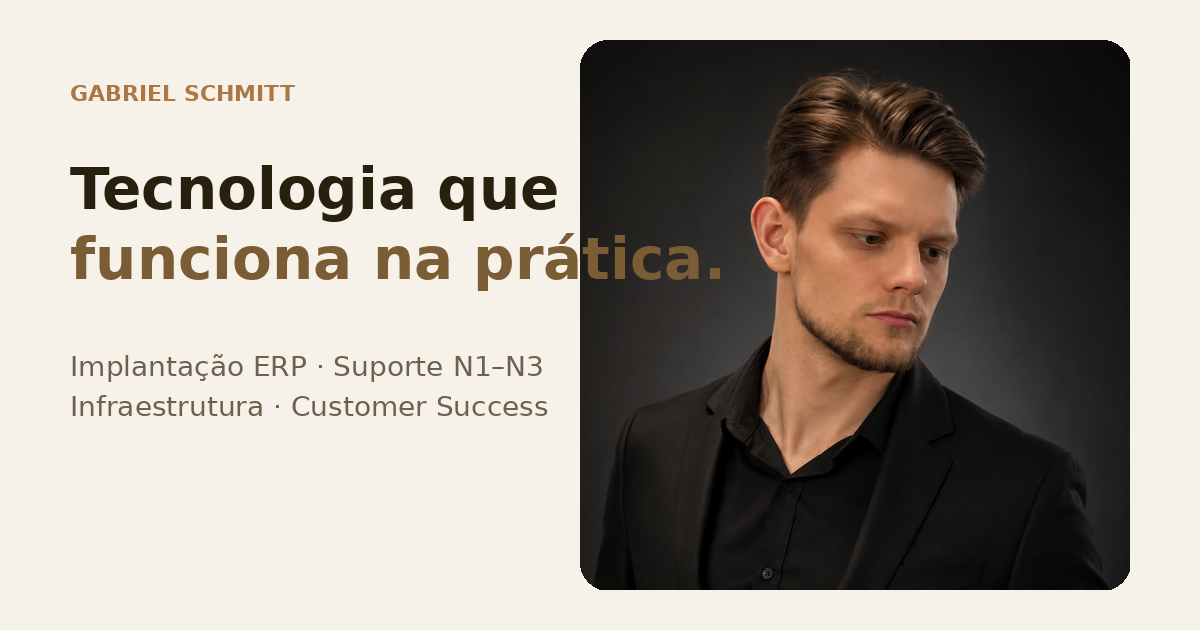
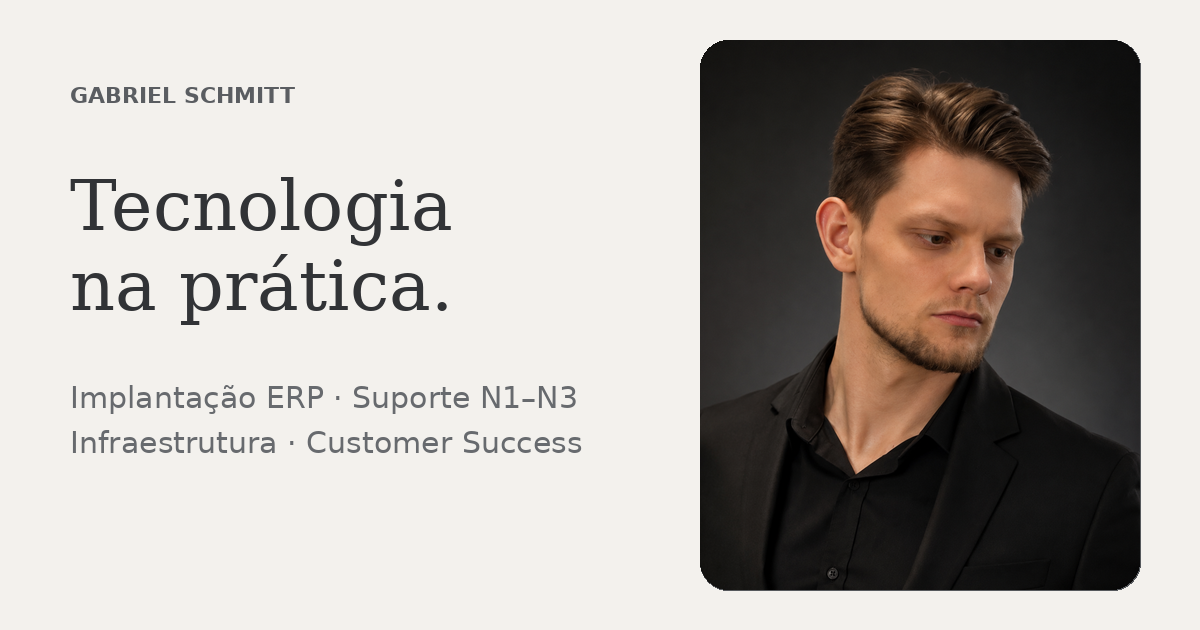
Add files via upload

Changed region(s): [[0.0617, 0.0603, 0.9558, 0.9349], [0.0617, 0.1206, 0.2467, 0.181], [0.6783, 0.9048, 0.7092, 0.9349]]

diff --git a/style.css b/style.css
@@ -1,23 +1,22 @@
 @import url('https://fonts.googleapis.com/css2?family=Fraunces:ital,opsz,wght@0,9..144,300;0,9..144,400;0,9..144,500;0,9..144,600;1,9..144,300;1,9..144,400&family=Outfit:wght@300;400;500;600&display=swap');
 
-
 :root {
-  --background: #111111;
-  --foreground: #F2F2F2;
-
-  --primary: #E7E7E7;
-  --primary-foreground: #111111;
-
-  --secondary: #1C1C1C;
-  --secondary-foreground: #D7D7D7;
-
-  --muted: #242424;
-  --muted-foreground: #A8A8A8;
-
-  --accent: #9AA4AE;
-
-  --border: #333333;
-  --card: #171717;
+  --background: #f3f1ed;
+  --foreground: #303235;
+  --card: #e7e5e0;
+  --primary: #55585c;
+  --primary-foreground: #f8f7f4;
+  --secondary: #d9d7d2;
+  --secondary-foreground: #424448;
+  --muted: #c9c7c2;
+  --muted-foreground: #676a6e;
+  --accent: #958b80;
+  --border: #c9c7c2;
+  --graphite: #5c5f63;
+  --graphite-deep: #4d5054;
+  --graphite-text: #f7f6f3;
+  --graphite-muted: #d4d3d0;
+  --max: 1120px;
 }
 
 * { box-sizing: border-box; }
@@ -80,8 +79,8 @@ h1, h2, h3, .brand { font-family: 'Fraunces', serif; }
   border-bottom: 1px solid transparent;
 }
 .site-nav--solid {
-  background: rgba(246, 241, 233, .94);
-  border-color: rgba(207, 198, 183, .78);
+  background: rgba(243, 241, 237, .96);
+  border-color: rgba(201, 199, 194, .82);
   backdrop-filter: blur(14px);
 }
 .nav-inner { min-height: 72px; display: flex; align-items: center; justify-content: space-between; gap: 24px; }
@@ -111,10 +110,10 @@ h1, h2, h3, .brand { font-family: 'Fraunces', serif; }
 .primary-link:hover { background: var(--accent); transform: translateY(-2px); }
 .hero-rule { width: 1px; height: 64px; background: var(--border); margin-top: 76px; }
 
-.about-grid { display: grid; grid-template-columns: .85fr 1.15fr; gap: 88px; align-items: center; }
+.about-grid { display: grid; grid-template-columns: minmax(330px, .9fr) minmax(0, 1.2fr); gap: 82px; align-items: center; }
 .portrait-column { display: flex; justify-content: flex-start; }
-.portrait-frame { width: 288px; position: relative; isolation: isolate; }
-.portrait-frame img { width: 288px; height: 352px; object-fit: cover; object-position: top center; border-radius: 16px; position: relative; z-index: 2; }
+.portrait-frame { width: 330px; position: relative; isolation: isolate; }
+.portrait-frame img { width: 330px; height: 404px; object-fit: cover; object-position: top center; border-radius: 16px; position: relative; z-index: 2; }
 .portrait-shadow { position: absolute; inset: 0; transform: translate(12px, 12px); border-radius: 16px; background: var(--muted); z-index: 0; }
 .corner { position: absolute; width: 40px; height: 40px; z-index: 3; border-color: var(--accent); }
 .corner-tl { top: -12px; left: -12px; border-top: 2px solid; border-left: 2px solid; border-top-left-radius: 12px; }
@@ -130,7 +129,44 @@ h1, h2, h3, .brand { font-family: 'Fraunces', serif; }
 .languages { color: var(--muted-foreground); font-size: .78rem; line-height: 1.7; }
 .languages span { margin: 0 5px; color: var(--border); }
 
-.projects-section { background: var(--card); }
+
+/* Definitive graphite + light-gray visual system */
+.hero {
+  background: linear-gradient(180deg, #f5f3ef 0%, #efede8 100%);
+}
+
+.about-section {
+  background: linear-gradient(135deg, #686b6f 0%, #595c60 58%, #64676b 100%);
+  color: var(--graphite-text);
+  border-top: 1px solid rgba(255,255,255,.08);
+  border-bottom: 1px solid rgba(255,255,255,.10);
+}
+.about-section .eyebrow { color: #d8cec3; }
+.about-section h2,
+.about-section h2 span { color: var(--graphite-text); }
+.about-section p:not(.eyebrow):not(.languages) { color: var(--graphite-muted); }
+.about-section .portrait-shadow { background: rgba(255,255,255,.10); }
+.about-section .corner { border-color: rgba(248,247,244,.92); }
+.about-section .contact-row a {
+  background: rgba(255,255,255,.045);
+  color: var(--graphite-text);
+  border-color: rgba(255,255,255,.28);
+  backdrop-filter: blur(8px);
+}
+.about-section .contact-row a:hover {
+  background: rgba(255,255,255,.92);
+  color: #494c50;
+  border-color: rgba(255,255,255,.92);
+}
+.about-section .languages { color: #deddda; }
+.about-section .languages span { color: rgba(255,255,255,.36); }
+
+.projects-section { background: #e5e3de; }
+.skills-section { background: #f5f3ef; }
+#experiencia { background: #eceae5; }
+.services-section { background: #d8d6d1; }
+.contact-footer { background: var(--graphite-deep); color: var(--primary-foreground); }
+
 .project-list { border-top: 1px solid var(--border); }
 .project-row { display: grid; grid-template-columns: 150px 1fr 190px; gap: 34px; align-items: start; padding: 34px 0; border-bottom: 1px solid var(--border); }
 .project-type, .project-meta { color: var(--muted-foreground); font-size: .78rem; line-height: 1.6; }
@@ -165,17 +201,17 @@ h1, h2, h3, .brand { font-family: 'Fraunces', serif; }
 
 .contact-footer { background: var(--primary); color: var(--primary-foreground); text-align: center; }
 .footer-inner { max-width: 760px; }
-.eyebrow-light { color: rgba(246, 241, 233, .68); }
+.eyebrow-light { color: rgba(248, 247, 244, .72); }
 .contact-footer h2 { margin: 0; font-size: clamp(3rem, 6vw, 5rem); line-height: 1; font-weight: 300; }
-.footer-copy { margin: 24px auto 34px; max-width: 540px; color: rgba(246, 241, 233, .78); line-height: 1.7; }
+.footer-copy { margin: 24px auto 34px; max-width: 540px; color: rgba(248, 247, 244, .82); line-height: 1.7; }
 .footer-actions { display: flex; justify-content: center; gap: 14px; flex-wrap: wrap; }
 .footer-actions a { display: inline-flex; align-items: center; gap: 8px; padding: 13px 20px; border-radius: 999px; font-size: .9rem; font-weight: 500; }
 .footer-primary { background: var(--primary-foreground); color: var(--primary); }
-.footer-secondary { border: 1px solid rgba(246, 241, 233, .42); }
-.footer-links { display: flex; justify-content: center; gap: 24px; flex-wrap: wrap; margin-top: 48px; padding-top: 28px; border-top: 1px solid rgba(246, 241, 233, .16); }
-.footer-links a { color: rgba(246, 241, 233, .72); font-size: .86rem; transition: color .2s ease; }
+.footer-secondary { border: 1px solid rgba(248, 247, 244, .46); }
+.footer-links { display: flex; justify-content: center; gap: 24px; flex-wrap: wrap; margin-top: 48px; padding-top: 28px; border-top: 1px solid rgba(248, 247, 244, .18); }
+.footer-links a { color: rgba(248, 247, 244, .76); font-size: .86rem; transition: color .2s ease; }
 .footer-links a:hover { color: var(--primary-foreground); }
-.copyright { margin: 30px 0 0; color: rgba(246, 241, 233, .42); font-size: .75rem; }
+.copyright { margin: 30px 0 0; color: rgba(248, 247, 244, .46); font-size: .75rem; }
 
 ::-webkit-scrollbar { width: 5px; }
 ::-webkit-scrollbar-track { background: transparent; }
@@ -194,14 +230,20 @@ h1, h2, h3, .brand { font-family: 'Fraunces', serif; }
 }
 
 @media (max-width: 620px) {
-  .container { width: min(calc(100% - 28px), var(--max)); }
+  .container { width: min(calc(100% - 32px), var(--max)); }
   .section-pad { padding: 72px 0; }
-  .hero h1 { font-size: clamp(3.6rem, 17vw, 5.5rem); }
+  .hero { min-height: 88vh; padding-top: 108px; }
+  .hero h1 { font-size: clamp(3.25rem, 15vw, 4.8rem); line-height: .94; }
   .hero-copy { font-size: 1rem; }
-  .hero-rule { margin-top: 56px; height: 48px; }
-  .about-grid h2 { font-size: 3.15rem; }
+  .hero-rule { margin-top: 52px; height: 44px; }
+  .about-grid { gap: 48px; }
+  .portrait-frame { width: min(78vw, 300px); }
+  .portrait-frame img { width: 100%; height: auto; aspect-ratio: 288 / 352; }
+  .about-grid h2 { font-size: clamp(2.65rem, 12.8vw, 3.15rem); line-height: 1.02; }
+  .contact-row { flex-direction: column; align-items: stretch; }
+  .contact-row a { width: 100%; justify-content: center; min-height: 44px; }
   .languages span { display: none; }
-  .languages { display: grid; gap: 4px; }
+  .languages { display: grid; gap: 4px; text-align: center; }
   .project-row { grid-template-columns: 1fr; gap: 10px; padding: 28px 0; }
   .project-meta { grid-column: auto; }
   .skills-grid { grid-template-columns: 1fr; }

diff --git a/index.html b/index.html
@@ -3,7 +3,7 @@
 <head>
   <meta charset="UTF-8" />
   <meta name="viewport" content="width=device-width, initial-scale=1.0" />
-  <meta name="theme-color" content="#F6F1E9" />
+  <meta name="theme-color" content="#F3F1ED" />
   <meta name="robots" content="index, follow" />
   <meta name="description" content="Portfólio profissional de Gabriel Schmitt. Experiência em implantação ERP, suporte N1–N3, infraestrutura de TI, Customer Success e desenvolvimento." />
   <link rel="canonical" href="https://gabriel.syrum.com.br/" />
@@ -54,7 +54,7 @@
   </header>
 
   <main>
-    <section id="sobre" class="section-pad">
+    <section id="sobre" class="section-pad about-section">
       <div class="container about-grid">
         <div class="portrait-column">
           <div class="portrait-frame">
@@ -86,7 +86,7 @@
           <article class="project-row"><div class="project-type">Case profissional</div><div class="project-body"><h3>Infraestrutura tecnológica de parque aquático</h3><p>Implantação completa do ambiente, incluindo cabeamento estruturado, switches, roteadores, múltiplos PDVs e parametrização do sistema.</p></div><div class="project-meta">Infraestrutura · Redes · PDV · ERP</div></article>
           <article class="project-row"><div class="project-type">Experiência</div><div class="project-body"><h3>Aproximadamente 20 implantações completas de ERP</h3><p>Projetos em empresas de diferentes segmentos, envolvendo preparação de ambiente, parametrização, treinamento, estabilização e suporte.</p></div><div class="project-meta">ERP · Implantação · Treinamento</div></article>
           <a class="project-row project-row--link" href="https://syrum.com.br" target="_blank" rel="noopener noreferrer"><div class="project-type">Projeto pessoal</div><div class="project-body"><h3>Syrum</h3><p>CRM e plataforma de atendimento e automação empresarial em desenvolvimento, criada como projeto próprio para estudar produto, arquitetura e experiência operacional.</p></div><div class="project-meta">SaaS · CRM · Desenvolvimento ↗</div></a>
-          <a class="project-row project-row--link" href="https://www.conrat.com.br/" target="_blank" rel="noopener noreferrer"><div class="project-type">Projeto web</div><div class="project-body"><h3>Site institucional da Conrat Tecnologia</h3><p>Site institucional desenvolvido para apresentar a Conrat, sua trajetória e seu ecossistema de soluções em automação, ERP, infraestrutura, segurança e suporte técnico.</p></div><div class="project-meta">Site institucional · Web · UX ↗</div></a>
+          <a class="project-row project-row--link" href="https://www.conrat.com.br/" target="_blank" rel="noopener noreferrer"><div class="project-type">Desenvolvimento web</div><div class="project-body"><h3>Site institucional da Conrat Tecnologia</h3><p>Site institucional desenvolvido para apresentar a empresa, sua trajetória, soluções e canais de contato em uma experiência clara e responsiva.</p></div><div class="project-meta">Web · Site institucional · Responsividade ↗</div></a>
           <a class="project-row project-row--link" href="https://github.com/contatogabrielschmitt-coder/gabriel-schmitt-portfolio" target="_blank" rel="noopener noreferrer"><div class="project-type">Projeto pessoal</div><div class="project-body"><h3>Portfólio profissional</h3><p>Projeto de presença digital com foco em identidade profissional, acessibilidade, responsividade e boa experiência em diferentes dispositivos.</p></div><div class="project-meta">Web · UI · GitHub Pages ↗</div></a>
         </div>
       </div>
@@ -99,8 +99,9 @@
           <article class="skill-item"><h3>ERP &amp; Implantação</h3><p>ERP DigiSat · parametrização fiscal (NCM, CFOP e CEST) · treinamento de usuários · Customer Success · suporte consultivo</p></article>
           <article class="skill-item"><h3>Infraestrutura de TI</h3><p>Windows · redes TCP/IP · VPN · compartilhamentos · servidores Windows · backup e recuperação · servidores Linux</p></article>
           <article class="skill-item"><h3>Hardware &amp; Suporte</h3><p>Suporte N1, N2 e N3 · desktops · notebooks · nobreaks · PDVs · impressoras · balanças · equipamentos fiscais</p></article>
-          <article class="skill-item"><h3>Ferramentas &amp; Tecnologia</h3><p>SQL · Excel · Docker · Git · React · TypeScript · Vite · desenvolvimento web · Navicat · PuTTY · WinSCP · Microsoft 365 · Notion</p></article>
+          <article class="skill-item"><h3>Ferramentas &amp; Tecnologia</h3><p>SQL · Excel · Docker · Git · Navicat · PuTTY · WinSCP · Microsoft 365 · Google Workspace · Notion · acesso remoto</p></article>
           <article class="skill-item"><h3>Gestão &amp; Liderança</h3><p>Liderança de equipes · organização de processos · treinamentos · gestão de conflitos · atendimento ao cliente · resolução de problemas</p></article>
+          <article class="skill-item"><h3>Desenvolvimento Web</h3><p>Criação de sites institucionais e landing pages · HTML · CSS · JavaScript · React · responsividade · GitHub Pages</p></article>
           <article class="skill-item"><h3>Formação</h3><p>Análise e Desenvolvimento de Sistemas — Uniasselvi · formação técnica no SENAI Blumenau · cursos Alura e Udemy</p></article>
         </div>
       </div>
@@ -119,7 +120,7 @@
     </section>
 
     <section class="section-pad services-section" aria-labelledby="services-title">
-      <div class="container services-grid"><div><p class="eyebrow">Também trabalho com</p><h2 id="services-title">Tecnologia aplicada ao que precisa funcionar.</h2></div><div class="services-list"><p>Suporte &amp; infraestrutura</p><p>Implantação e parametrização de sistemas</p><p>Diagnóstico e manutenção técnica</p><p>Desenvolvimento de landing pages e sites institucionais</p><a href="#contato">Falar sobre um projeto ↘</a></div></div>
+      <div class="container services-grid"><div><p class="eyebrow">Também trabalho com</p><h2 id="services-title">Tecnologia aplicada ao que precisa funcionar.</h2></div><div class="services-list"><p>Suporte &amp; infraestrutura</p><p>Implantação e parametrização de sistemas</p><p>Diagnóstico e manutenção técnica</p><p>Landing pages e sites institucionais</p><a href="#contato">Falar sobre um projeto ↘</a></div></div>
     </section>
   </main>
 
